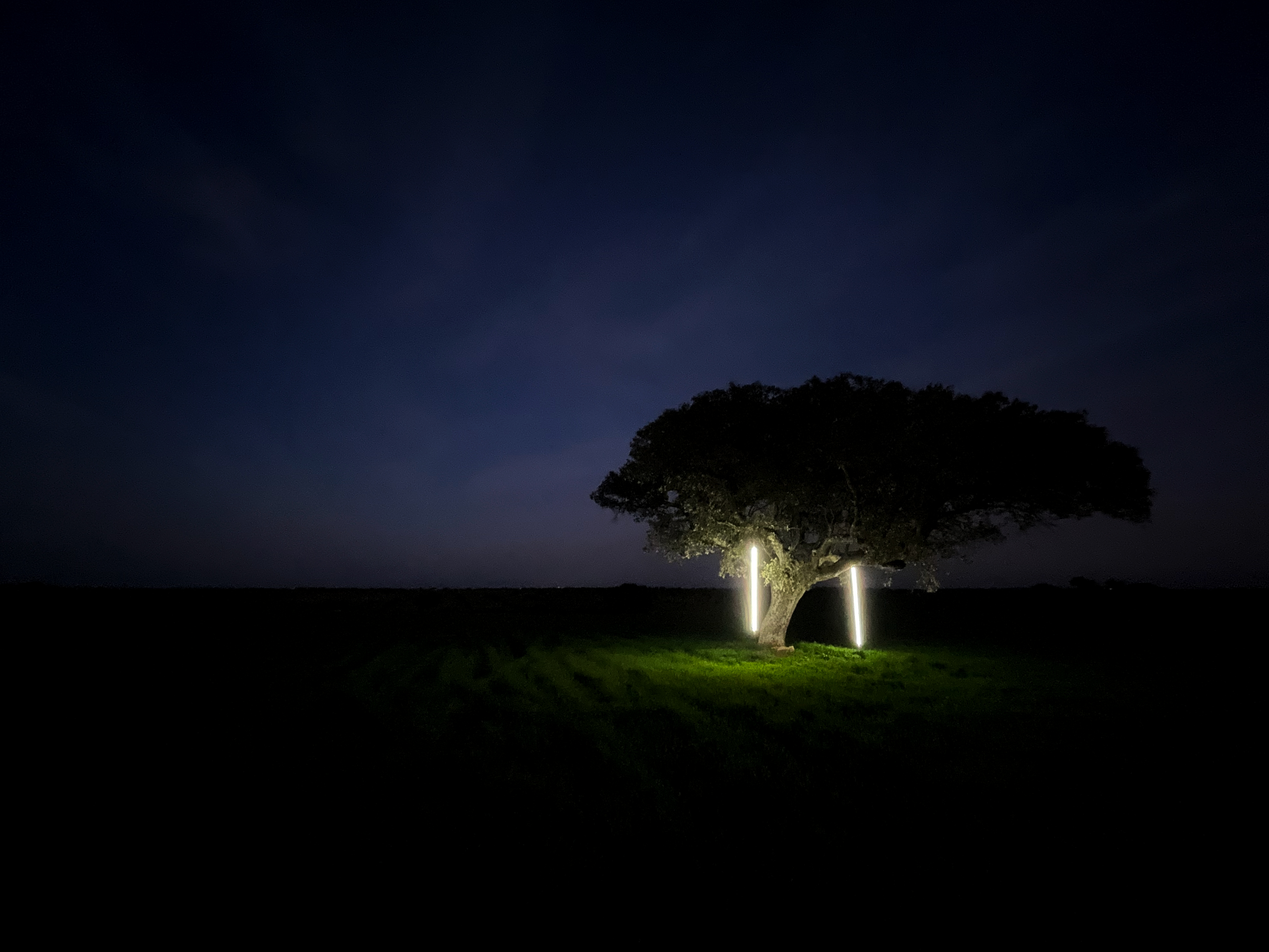
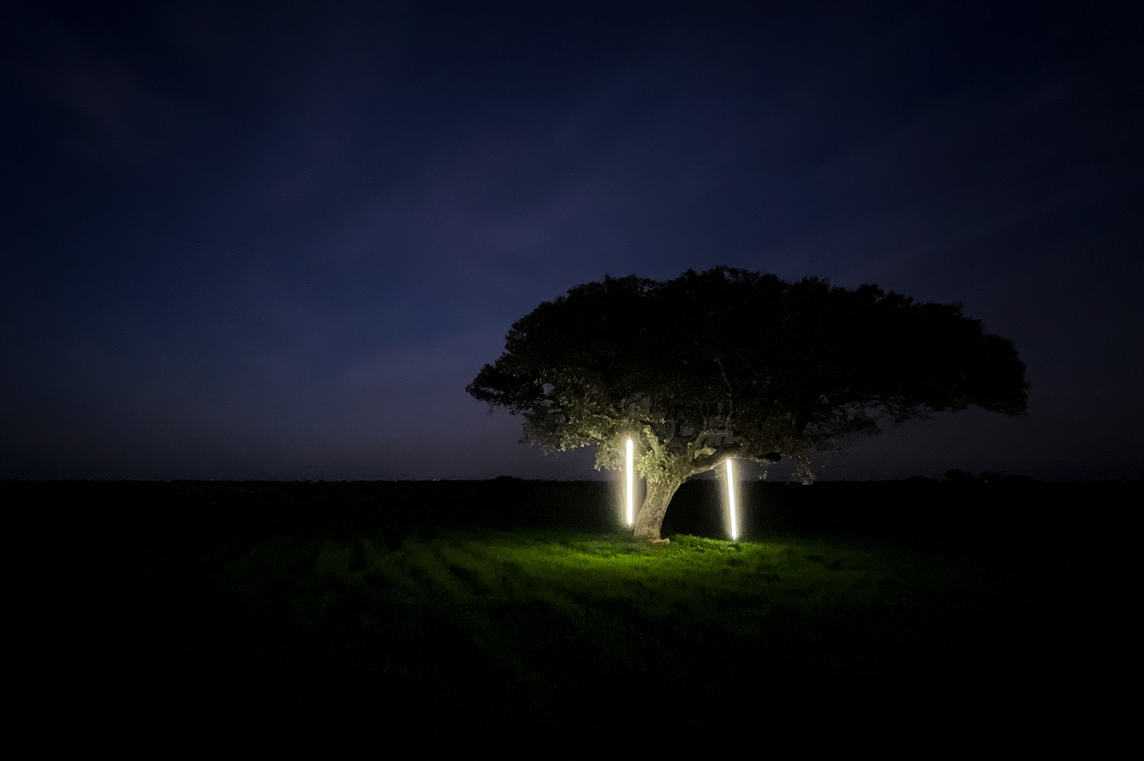
bg image about sizing and tags

diff --git a/src/components/Scrolltotop.js b/src/components/Scrolltotop.js
@@ -7,7 +7,7 @@ const useStyles = makeStyles((theme) => ({
     toTop: {
         zIndex: 2,
         position: 'fixed',
-        bottom: '11.5vh',
+        bottom: '14vh',
         backgroundColor: 'black',
         color: 'black',
         "&:hover, &.Mui-focusVisible": {

diff --git a/src/components/Home.css b/src/components/Home.css
@@ -1,6 +1,6 @@
 .background {
-  background-image: url("backgroundian2.jpg");
-  background-position: 70% 20%;
+  background-image: url("backgroundian3.jpg");
+  background-position: center;
   width: 100%;
   height: 1000px;
   border: 0px;

diff --git a/src/components/About.css b/src/components/About.css
@@ -47,6 +47,10 @@ h2{
   margin-right: 25px;
   margin-bottom: 127px;
   text-align: justify;
+}
 
-
+@media (max-width: 800px) {
+li, .subtitle{
+  font-size: 10px;
+  }
 }

diff --git a/src/components/Outdoor.css b/src/components/Outdoor.css
@@ -49,3 +49,9 @@
 .image {
   width: 100%;
 }
+
+@media (max-width: 800px) {
+.tags {
+  font-size: 10px;
+  }
+}
